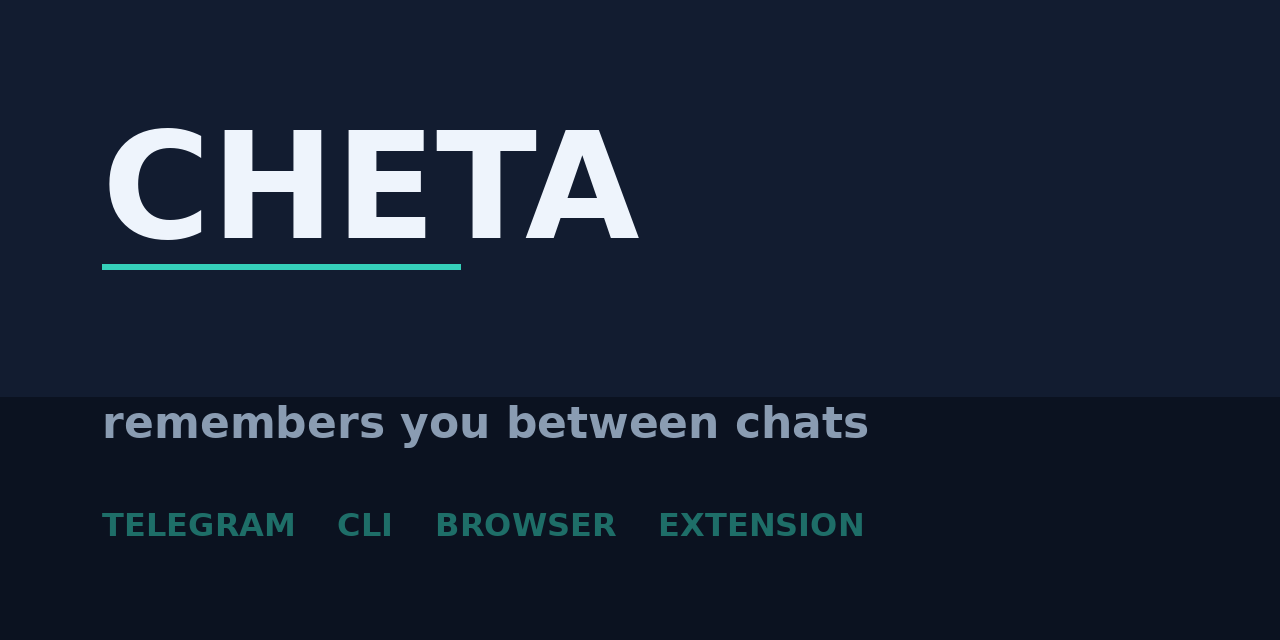
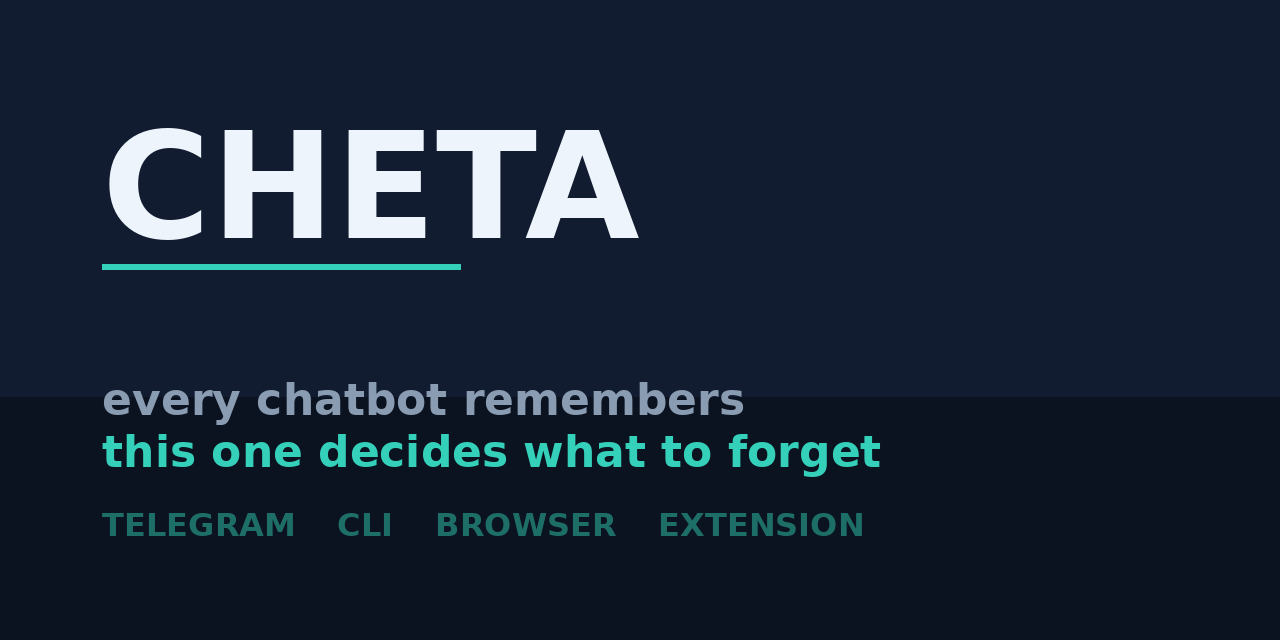
Replace the tagline: it was describing the premise, not the product
"Remembers you between chats" is the hackathon's own premise. Every entrant will
claim it, so it differentiated nothing and made a curation layer sound like a
stock feature.

The tagline now names the work that is actually ours:

    every chatbot remembers
    this one decides what to forget

That maps to the consolidation layer: repeated facts collapsed, changed minds
superseded, contradictions surfaced rather than piled up, and everything visible
and correctable through /memories and /forget. Applied to the welcome banner and
to the live Telegram description.

Changed region(s): [[0.0625, 0.5938, 0.6875, 0.75]]

diff --git a/scripts/register_telegram_profile.py b/scripts/register_telegram_profile.py
@@ -32,12 +32,15 @@ from core.config import load_environment  # noqa: E402
 
 TELEGRAM_API = "https://api.telegram.org"
 
-SHORT_DESCRIPTION = "A memory-first assistant. It remembers you between chats."
+SHORT_DESCRIPTION = "Every chatbot remembers. This one decides what to forget."
 
 DESCRIPTION = (
-    "I am Cheta, a memory-first assistant. What you tell me is stored in your own "
-    "private memory space and comes back in later conversations, so you do not "
-    "have to explain yourself twice. Ask me what I remember about you at any time."
+    "I am Cheta. I keep a private memory space per person, shared across Telegram, "
+    "a CLI, a browser widget and a Chrome extension. What makes me different is what "
+    "I do with it: I collapse repeated facts, retire the ones you have changed your "
+    "mind about, and tell you when two things you told me conflict, instead of "
+    "piling them all up. You can see everything I know with /memories, and remove "
+    "anything with /forget."
 )
 
 COMMANDS = (

diff --git a/scripts/make_brand_assets.py b/scripts/make_brand_assets.py
@@ -107,8 +107,20 @@ def make_welcome(path: Path, width: int = 1280, height: int = 640) -> None:
         width=6,
     )
 
-    tagline = "remembers you between chats"
-    draw.text((width * 0.08, height * 0.62), tagline, font=tagline_font, fill=MUTED)
+    # Not "remembers you between chats": that is the hackathon premise, which
+    # every entrant claims. The differentiator is curation, so the banner names it.
+    draw.text(
+        (width * 0.08, height * 0.585),
+        "every chatbot remembers",
+        font=tagline_font,
+        fill=MUTED,
+    )
+    draw.text(
+        (width * 0.08, height * 0.665),
+        "this one decides what to forget",
+        font=tagline_font,
+        fill=ACCENT,
+    )
 
     labels = ("TELEGRAM", "CLI", "BROWSER", "EXTENSION")
     x = width * 0.08
